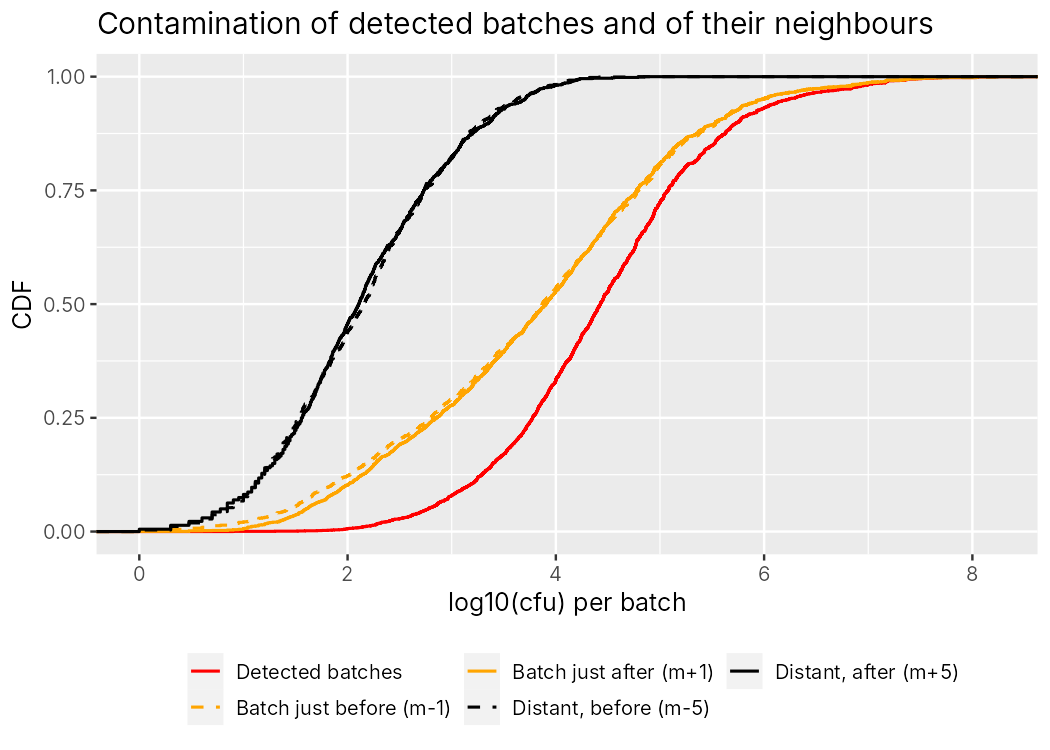
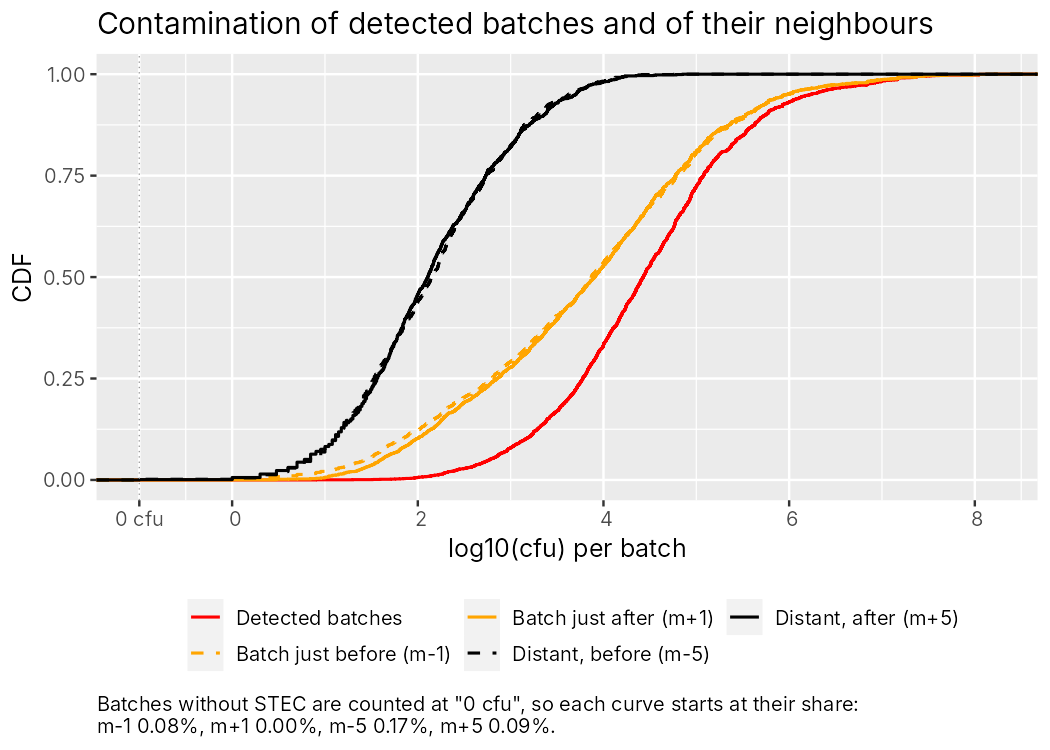
Show batches without STEC at a "0 cfu" position in Figures 13 and 15
log10(0) does not exist, so these batches were dropped from both figures.
They are now drawn at zero_at (-1 by default) on the log10 axis, labelled
"0 cfu": as crosses in Figure 13, and counted in the CDFs of Figure 15 so
each curve starts at its group's share of batches without STEC.

Claude-Session: https://claude.ai/code/session_01Y1Es8Jbu28C3hz135Bheyj

diff --git a/README.md b/README.md
@@ -81,7 +81,7 @@ Rscript R/mix_vph_batches.R batch_kg=500 b=2                # other batch mass a
 Rscript R/mix_vph_batches.R b_mode=uniform b_min=0.5 b_max=2   # b drawn per batch
 ```
 
-Run it from the repository root; it needs `dplyr` and `ggplot2`. Parameters (`batch_kg`, `carry_over`, `sample_g`, `b_mode`, `b`, `b_min`, `b_max`, `n_enhanced`, `far_lag`, `n_plot`, `split_mode`, `seed`, `input_file`) can be changed at the top of the script or as `name=value` arguments.
+Run it from the repository root; it needs `dplyr` and `ggplot2`. Parameters (`batch_kg`, `carry_over`, `sample_g`, `b_mode`, `b`, `b_min`, `b_max`, `n_enhanced`, `far_lag`, `n_plot`, `zero_at`, `split_mode`, `seed`, `input_file`) can be changed at the top of the script or as `name=value` arguments.
 
 Outputs: `output/batches.csv` (one row per batch: bacteria, mass, bacteria carried in, boxes used with the kg taken from each, b, probability of detection, result; not versioned, about 6 MB), `output/summary.csv`, `output/balance.csv` and three figures:
 
@@ -90,6 +90,8 @@ Outputs: `output/batches.csv` (one row per batch: bacteria, mass, bacteria carri
 | [`figures/fig13_batch_contamination.png`](figures/fig13_batch_contamination.png) | log10 bacteria in the first 150 batches, red when detected (Figure 13 of the opinion) |
 | [`figures/fig14_detection_probability.png`](figures/fig14_detection_probability.png) | probability of detection of the same batches (Figure 14) |
 | [`figures/fig15_cdf_neighbours.png`](figures/fig15_cdf_neighbours.png) | cumulative distributions of contamination for detected batches, the batches just before and after them, and batches 5 away (Figure 15) |
+
+Batches without STEC (0.3% with the defaults) are kept everywhere: in `output/batches.csv` they have `cfu = 0` and a probability of detection of 0. Since log10(0) does not exist, Figures 13 and 15 draw them at a conventional position marked "0 cfu" (−1 on the log10 axis, parameter `zero_at`), as crosses in Figure 13; each curve of Figure 15 therefore starts at the share of its group without STEC.
 
 With the example data and the defaults, the boxes give 49,999 batches of 1,000 kg (the first batch also fills the mixer residue). 4.8% of batches are detected (2.7% in the opinion), the mean probability of detecting the neighbouring batches with 30 samples is 73% (66% in the opinion), and the median contamination of detected batches is about 200 times that of batches 5 away (about 100 times in the opinion).
 
